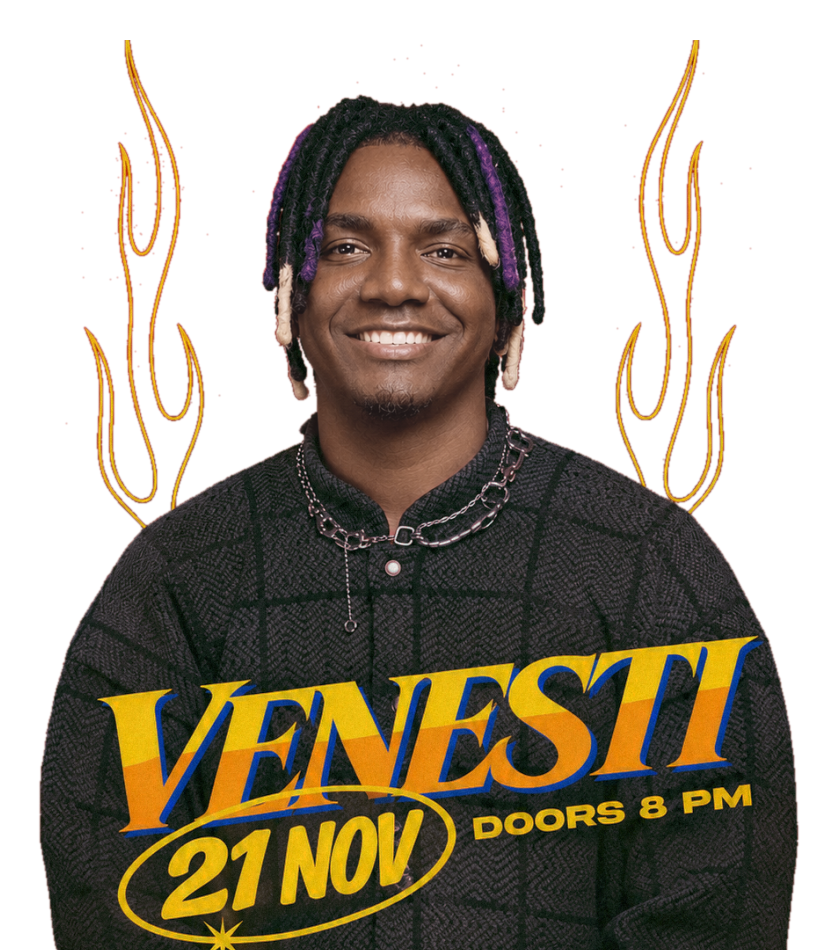
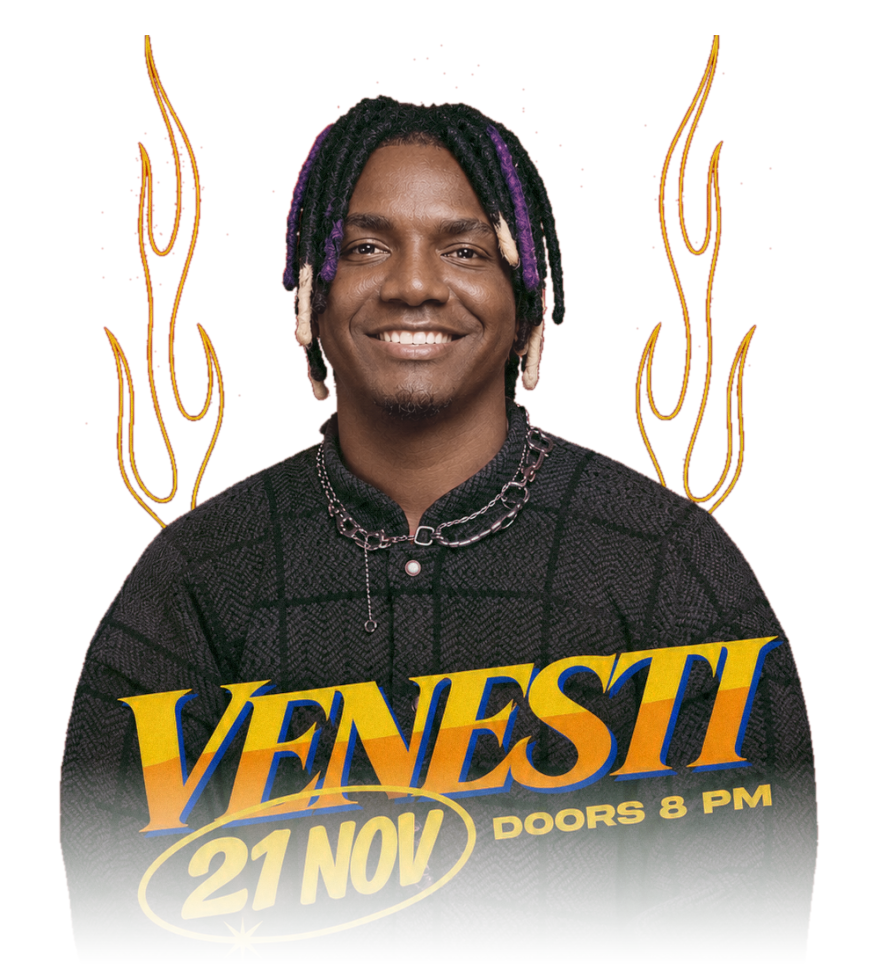
fix: extender cuerpo del artista y llamas hasta la cuenta regresiva

diff --git a/assets/css/styles.css b/assets/css/styles.css
@@ -313,42 +313,46 @@ button {
 .hero-visual-center {
   position: relative;
   width: 100%;
-  max-width: 440px;
+  max-width: 480px;
   margin: 0 auto;
   display: flex;
   flex-direction: column;
   align-items: center;
-  justify-content: center;
+  justify-content: flex-end;
   z-index: 6;
 }
 
 .hero-flame {
   position: absolute;
-  width: 78px;
-  height: auto;
-  top: 10%;
+  width: clamp(75px, 20vw, 120px);
+  height: calc(100% + 25px);
+  top: 0;
+  bottom: -25px;
   z-index: 5;
   filter: drop-shadow(0 0 10px rgba(245, 197, 66, 0.6));
   animation: flameGlowShimmer 4s ease-in-out infinite alternate;
   pointer-events: none;
 }
 
-.hero-flame-left { left: 0; }
-.hero-flame-right { right: 0; }
+.hero-flame-left { left: -8px; }
+.hero-flame-right { right: -8px; }
 
 .hero-portrait-wrapper {
   position: relative;
   width: 100%;
-  max-width: 360px;
-  margin: 0 auto;
+  max-width: 420px;
+  margin: 0 auto -2rem;
   z-index: 6;
 }
 
 .venesti-portrait-img {
   width: 100%;
   height: auto;
+  display: block;
   filter: drop-shadow(0 8px 30px rgba(0, 0, 0, 0.7));
   margin: 0 auto;
+  mask-image: linear-gradient(to bottom, black 72%, transparent 98%);
+  -webkit-mask-image: linear-gradient(to bottom, black 72%, transparent 98%);
 }
 
 .venesti-name-text {
@@ -422,7 +426,7 @@ button {
 .hero-bottom-actions {
   width: 100%;
   max-width: 480px;
-  margin: 1.25rem auto 0;
+  margin: 0 auto;
   z-index: 10;
   display: flex;
   flex-direction: column;

diff --git a/index.html b/index.html
@@ -98,9 +98,9 @@
 
     <!-- Centro: Retrato de Venesti, Llamas Line-Art y Titular con Degradado -->
     <div class="hero-visual-center">
-      <!-- Llamas en trazo lineal dorado flanqueando al artista -->
-      <img src="assets/images/flame_left.webp" class="hero-flame hero-flame-left" alt="" aria-hidden="true" width="116" height="340">
-      <img src="assets/images/flame_right.webp" class="hero-flame hero-flame-right" alt="" aria-hidden="true" width="116" height="340">
+      <!-- Llamas en trazo lineal dorado flanqueando al artista hasta la cuenta regresiva -->
+      <img src="assets/images/flame_tall_left.svg" class="hero-flame hero-flame-left" alt="" aria-hidden="true" width="120" height="620">
+      <img src="assets/images/flame_tall_right.svg" class="hero-flame hero-flame-right" alt="" aria-hidden="true" width="120" height="620">
 
       <!-- Retrato de Venesti -->
       <div class="hero-portrait-wrapper">
